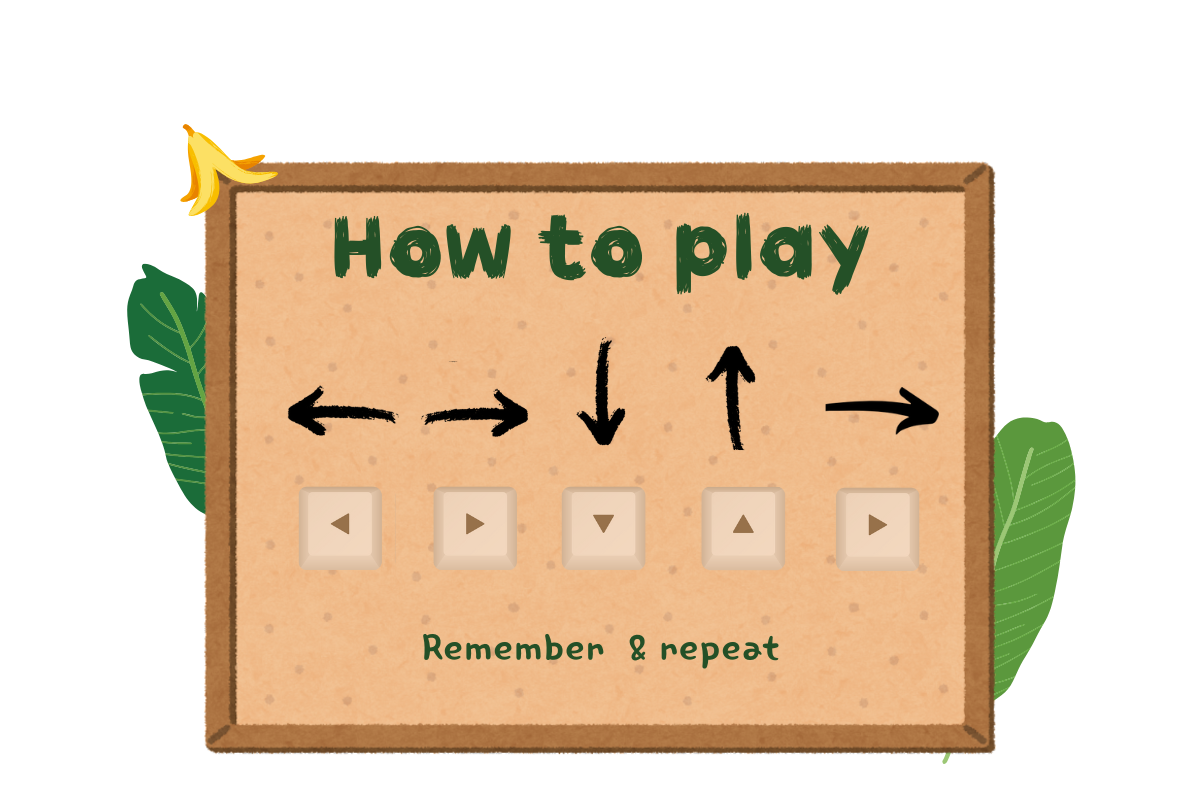
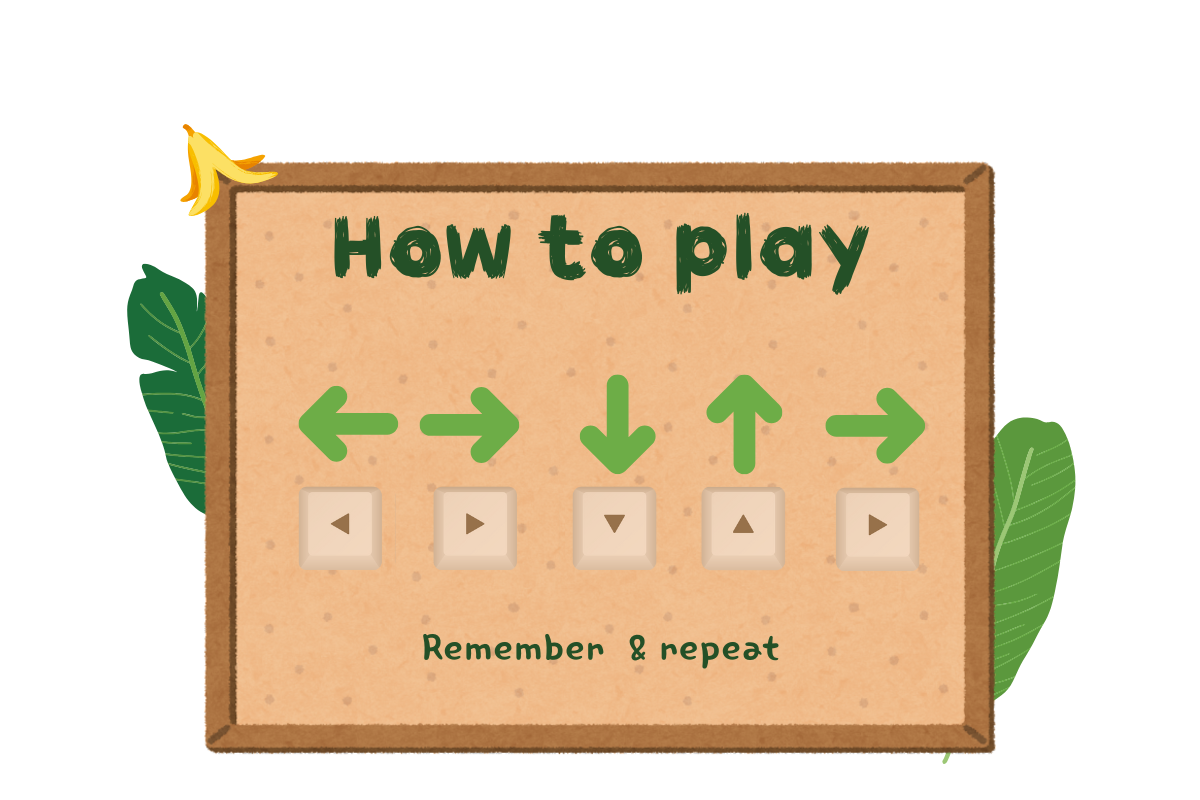
memory

Changed region(s): [[0.2158, 0.4062, 0.555, 0.7188], [0.6783, 0.4688, 0.8017, 0.5938], [0.5858, 0.4375, 0.6475, 0.5938]]

diff --git a/src/Memory.cpp b/src/Memory.cpp
@@ -17,7 +17,7 @@ Memory::Memory() {
     img13 = LoadTexture("pic/memory/obj1.png");
     img14 = LoadTexture("pic/memory/obj2.png");
 
-    imgup = LoadTexture("pic/memory/up.png");      // รูป up
+    imgup = LoadTexture("pic/memory/1.png");      // รูป up
     imgleft = LoadTexture("pic/memory/left.png");  // รูป left
     imgdown = LoadTexture("pic/memory/down.png");  // รูป down
     imgright = LoadTexture("pic/memory/right.png"); // รูป right
@@ -26,7 +26,6 @@ Memory::Memory() {
     P2win = LoadTexture("pic/result/P2win.png");
     draw = LoadTexture("pic/result/Draw.png");
 
-    SetTargetFPS(60);
     srand(time(0));
 
     round = 1;
@@ -253,13 +252,13 @@ void Memory::Draw() {
         if (showing_target && current_index < 5) {
             if (timer <= 1.0f) {  // แสดงภาพ 1.5 วินาที
                 if (random_moves[current_index] == "up") {
-                    DrawTextureEx(imgup, (Vector2){screenWidth / 2 - 35, screenHeight / 2 + 85}, 0.0f, 0.35f, WHITE);
+                    DrawTextureEx(imgup, (Vector2){-17,52.6}, 0.0f, 1.0f, WHITE);
                 } else if (random_moves[current_index] == "down") {
-                    DrawTextureEx(imgdown, (Vector2){screenWidth / 2 - 40, screenHeight / 2 + 85}, 0.0f, 0.35f, WHITE);
+                    DrawTextureEx(imgdown, (Vector2){-17,52.6}, 0.0f, 1.0f, WHITE);
                 } else if (random_moves[current_index] == "left") {
-                    DrawTextureEx(imgleft, (Vector2){screenWidth / 2 - 48, screenHeight / 2 + 92}, 0.0f, 0.35f, WHITE);
+                    DrawTextureEx(imgleft, (Vector2){-17,52.6}, 0.0f, 1.0f, WHITE);
                 } else if (random_moves[current_index] == "right") {
-                    DrawTextureEx(imgright, (Vector2){screenWidth / 2 - 48, screenHeight / 2 + 85}, 0.0f, 0.35f, WHITE);
+                    DrawTextureEx(imgright, (Vector2){-17,52.6}, 0.0f, 1.0f, WHITE);
                 }
             }
             // ถ้า timer > 1.5s (ช่วง 0.5 วินาทีสุดท้าย) → ไม่ต้องวาดอะไรเลย
